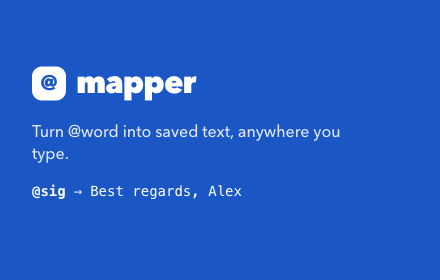
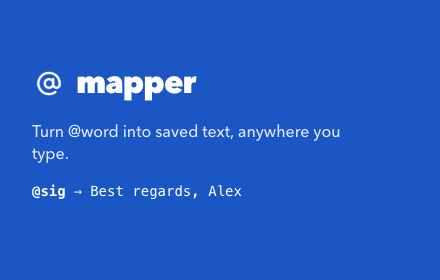
update promo

Changed region(s): [[0.0591, 0.2286, 0.1477, 0.3714]]

diff --git a/scripts/capture/promo.html b/scripts/capture/promo.html
@@ -29,10 +29,8 @@
       .tile { width: 100%; height: 100%; }
       .brand { display: flex; align-items: center; }
       .mark {
-        display: grid;
-        place-items: center;
-        font-weight: 750;
-        line-height: 1;
+        display: block;
+        flex: none;
       }
       .word { font-weight: 750; letter-spacing: -0.03em; line-height: 1; }
       .example {
@@ -53,10 +51,6 @@
       [data-size="small"] .mark {
         width: 34px;
         height: 34px;
-        background: #ffffff;
-        color: var(--accent);
-        border-radius: 10px;
-        font-size: 21px;
       }
       [data-size="small"] .word { font-size: 31px; color: #ffffff; }
       [data-size="small"] .tagline {
@@ -88,10 +82,6 @@
       [data-size="marquee"] .mark {
         width: 46px;
         height: 46px;
-        background: var(--accent);
-        color: #ffffff;
-        border-radius: 13px;
-        font-size: 28px;
       }
       [data-size="marquee"] .word { font-size: 27px; color: var(--accent-strong); }
       [data-size="marquee"] .headline {
@@ -132,7 +122,7 @@
     <div class="tile">
       <div class="copy">
         <div class="brand">
-          <span class="mark" aria-hidden="true">@</span>
+          <img class="mark" src="/icon.png" alt="" aria-hidden="true" />
           <span class="word">mapper</span>
         </div>
         <h1 class="headline">Manage your shortcuts<br />on the go.</h1>

diff --git a/scripts/capture/stage-popup.html b/scripts/capture/stage-popup.html
@@ -41,14 +41,8 @@
       .mark {
         width: 44px;
         height: 44px;
-        display: grid;
-        place-items: center;
-        background: var(--accent);
-        color: #ffffff;
-        border-radius: 13px;
-        font-size: 27px;
-        font-weight: 750;
-        line-height: 1;
+        display: block;
+        flex: none;
       }
       .word { font-size: 26px; font-weight: 700; letter-spacing: -0.03em; color: var(--accent-strong); }
       h1 { margin: 0; font-size: 45px; line-height: 1.04; letter-spacing: -0.04em; font-weight: 750; }
@@ -76,7 +70,7 @@
     <div class="stage">
       <div class="copy">
         <div class="brand">
-          <span class="mark" aria-hidden="true">@</span>
+          <img class="mark" src="/icon.png" alt="" aria-hidden="true" />
           <span class="word">mapper</span>
         </div>
         <h1>Manage your shortcuts<br />on the go.</h1>
